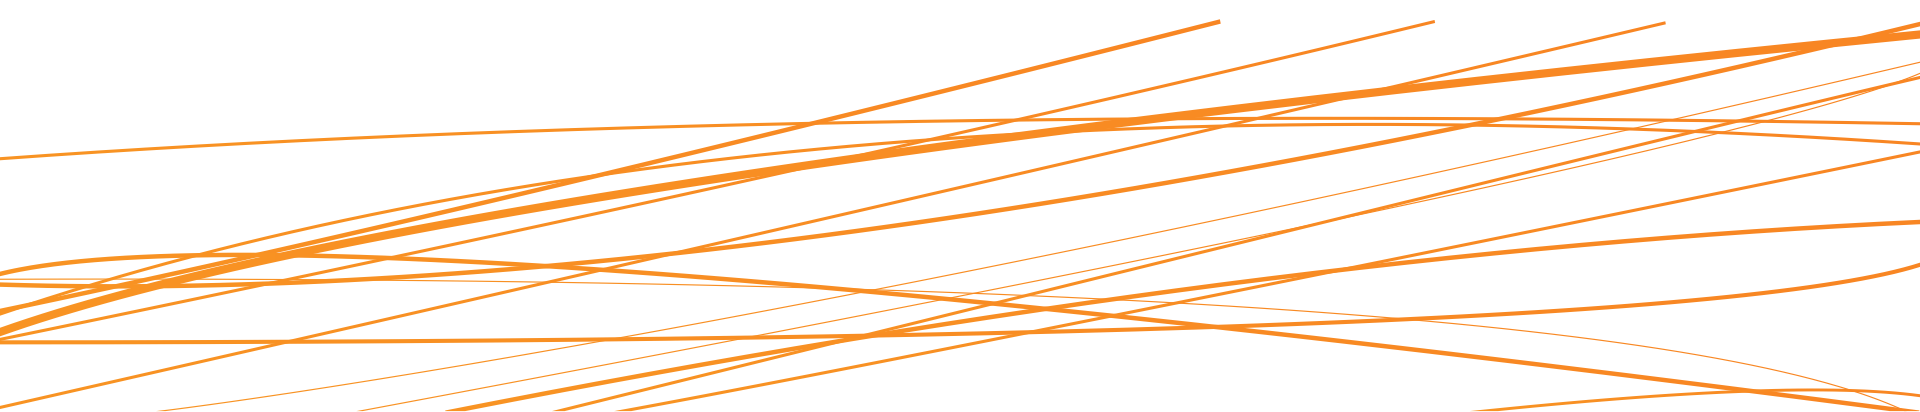
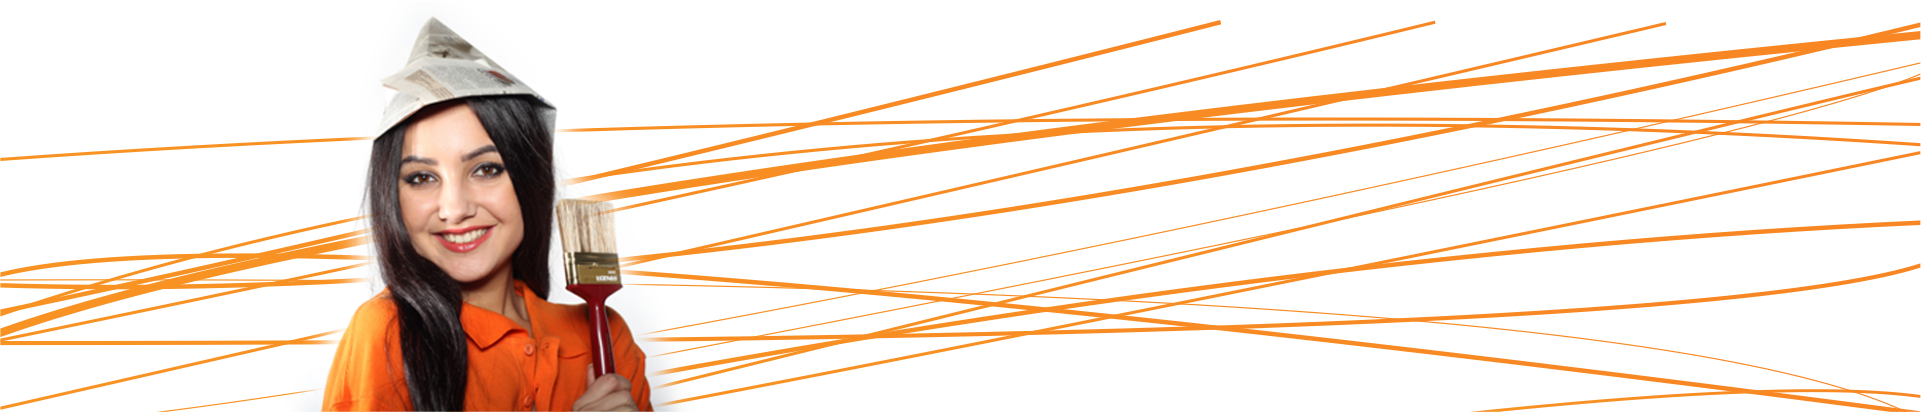
Fat Hairy Man is here

diff --git a/include/style/style.css b/include/style/style.css
@@ -339,9 +339,19 @@ a{
 	margin: 0 auto;
 	font-size: 26px;
 	text-align: center;
-
+	position: relative;
 }
-
+#question #fathairyman{
+	position: absolute;
+	top:0;
+	right: -270px;
+	background-image: url('/include/images/fathairyman.png');
+	background-repeat: no-repeat;
+	/*background-position: 502px;*/
+	background-size: auto 274px;
+	width: 472px;
+	height: 274px;
+}
 #question div:not(.question_button){
 	margin: 30px auto;
 }

diff --git a/application/views/main/question2.php b/application/views/main/question2.php
@@ -4,5 +4,6 @@
 		<div>Хватит, пора жить красиво. Раскрасьте свои мечты!!!</div>
 		<div class="question_button"><a href="/main/form_php">ОСТАВЬТЕ ЗАЯВКУ</a></div>
 		<div id="question_small">или позвоните нам по номеру 8 (8352) 63-63-59</div>
+		<div id="fathairyman"></div>
 	</div>
 </div>

diff --git a/application/views/main/question.php b/application/views/main/question.php
@@ -4,5 +4,6 @@
 		<div>Оставьте заявку, наши менеджеры вам ответят.</div>
 		<div class="question_button"><a href="/main/form_php">ОСТАВЬТЕ ЗАЯВКУ</a></div>
 		<div id="question_small">или позвоните нам по номеру 8 (8352) 63-63-59</div>
+		<div id="fathairyman"></div>
 	</div>
 </div>
